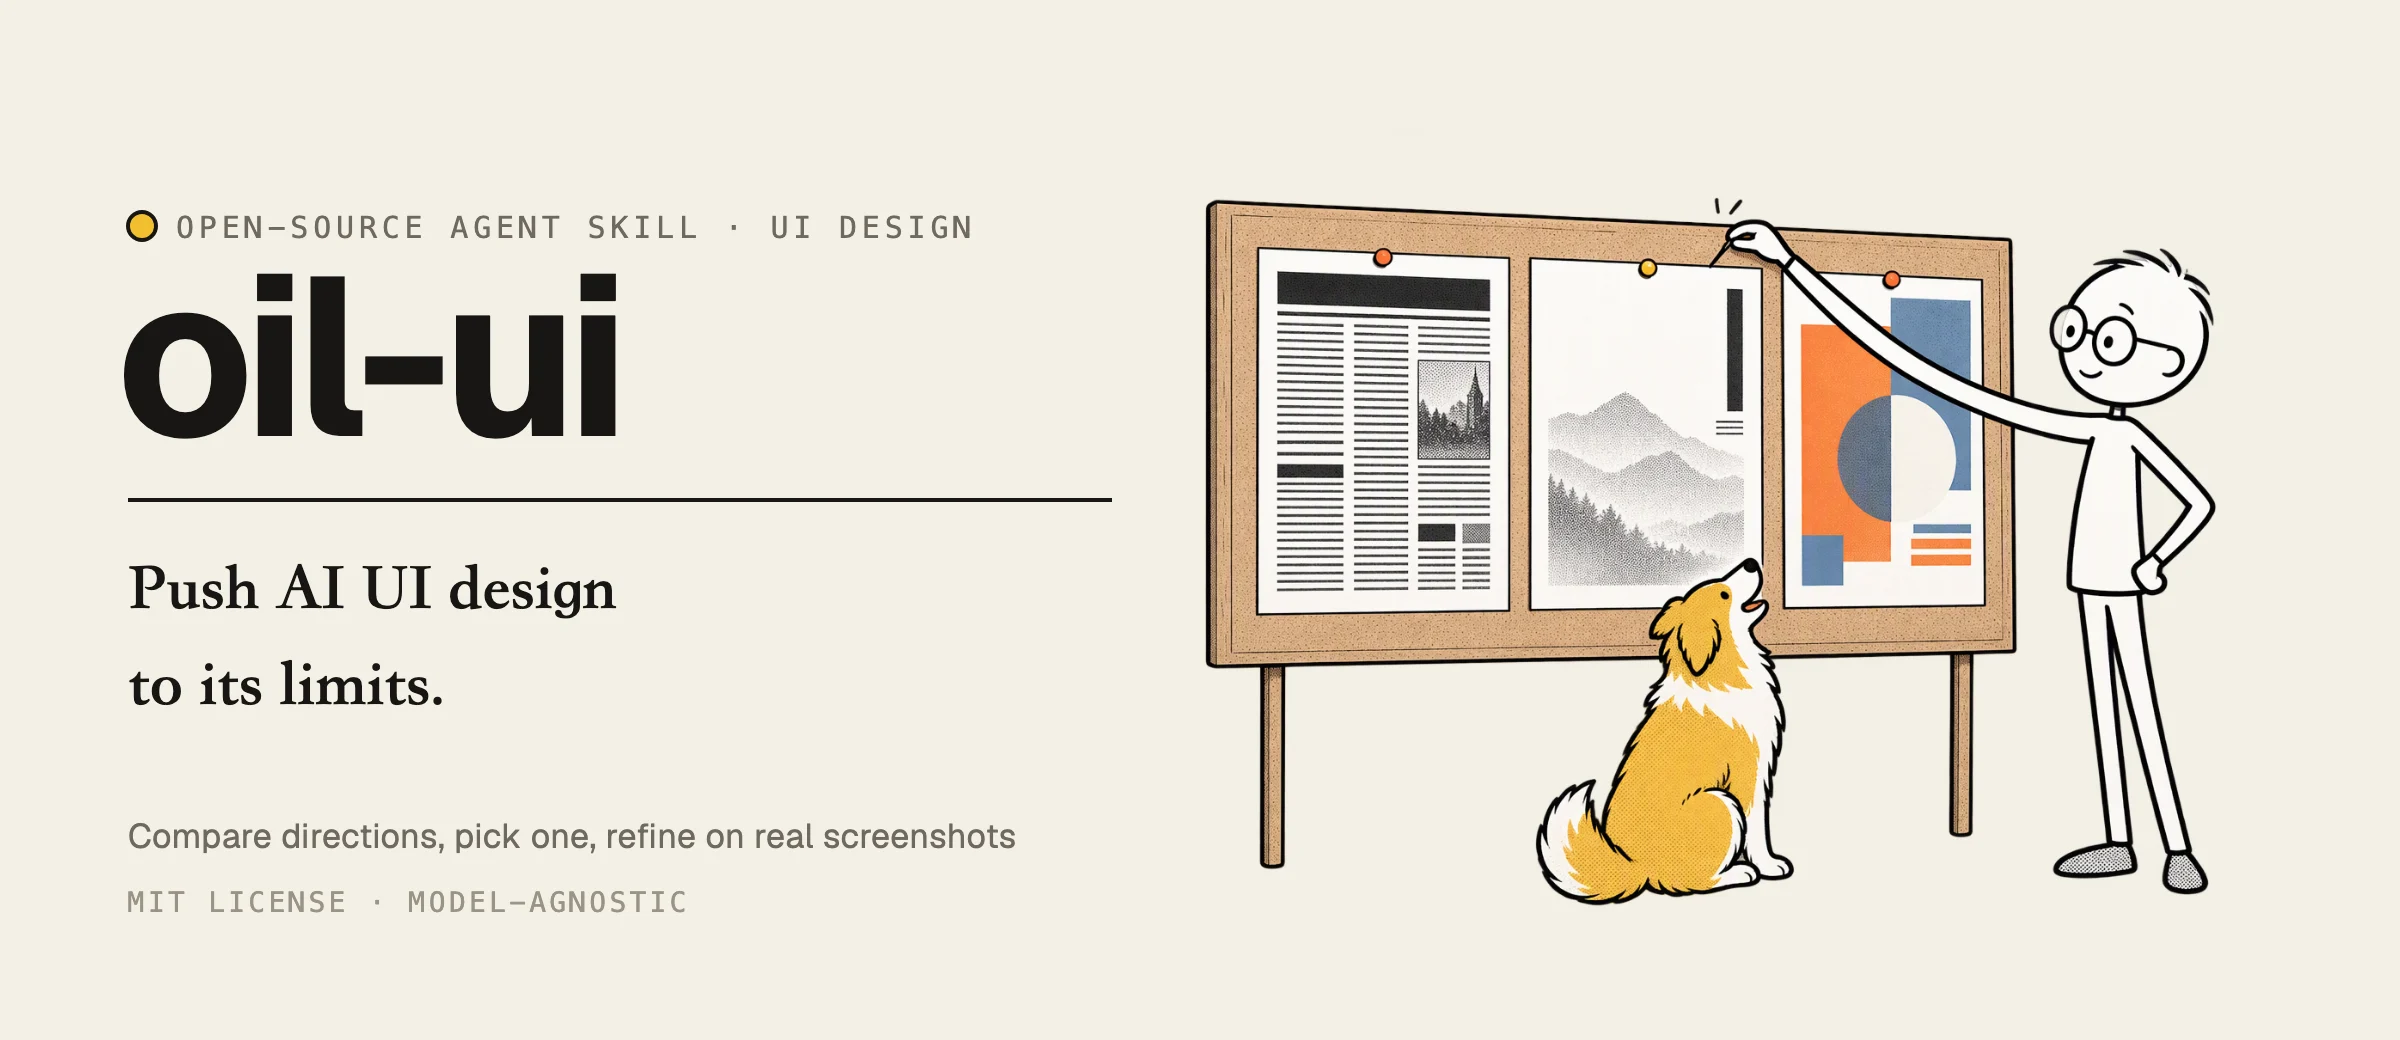
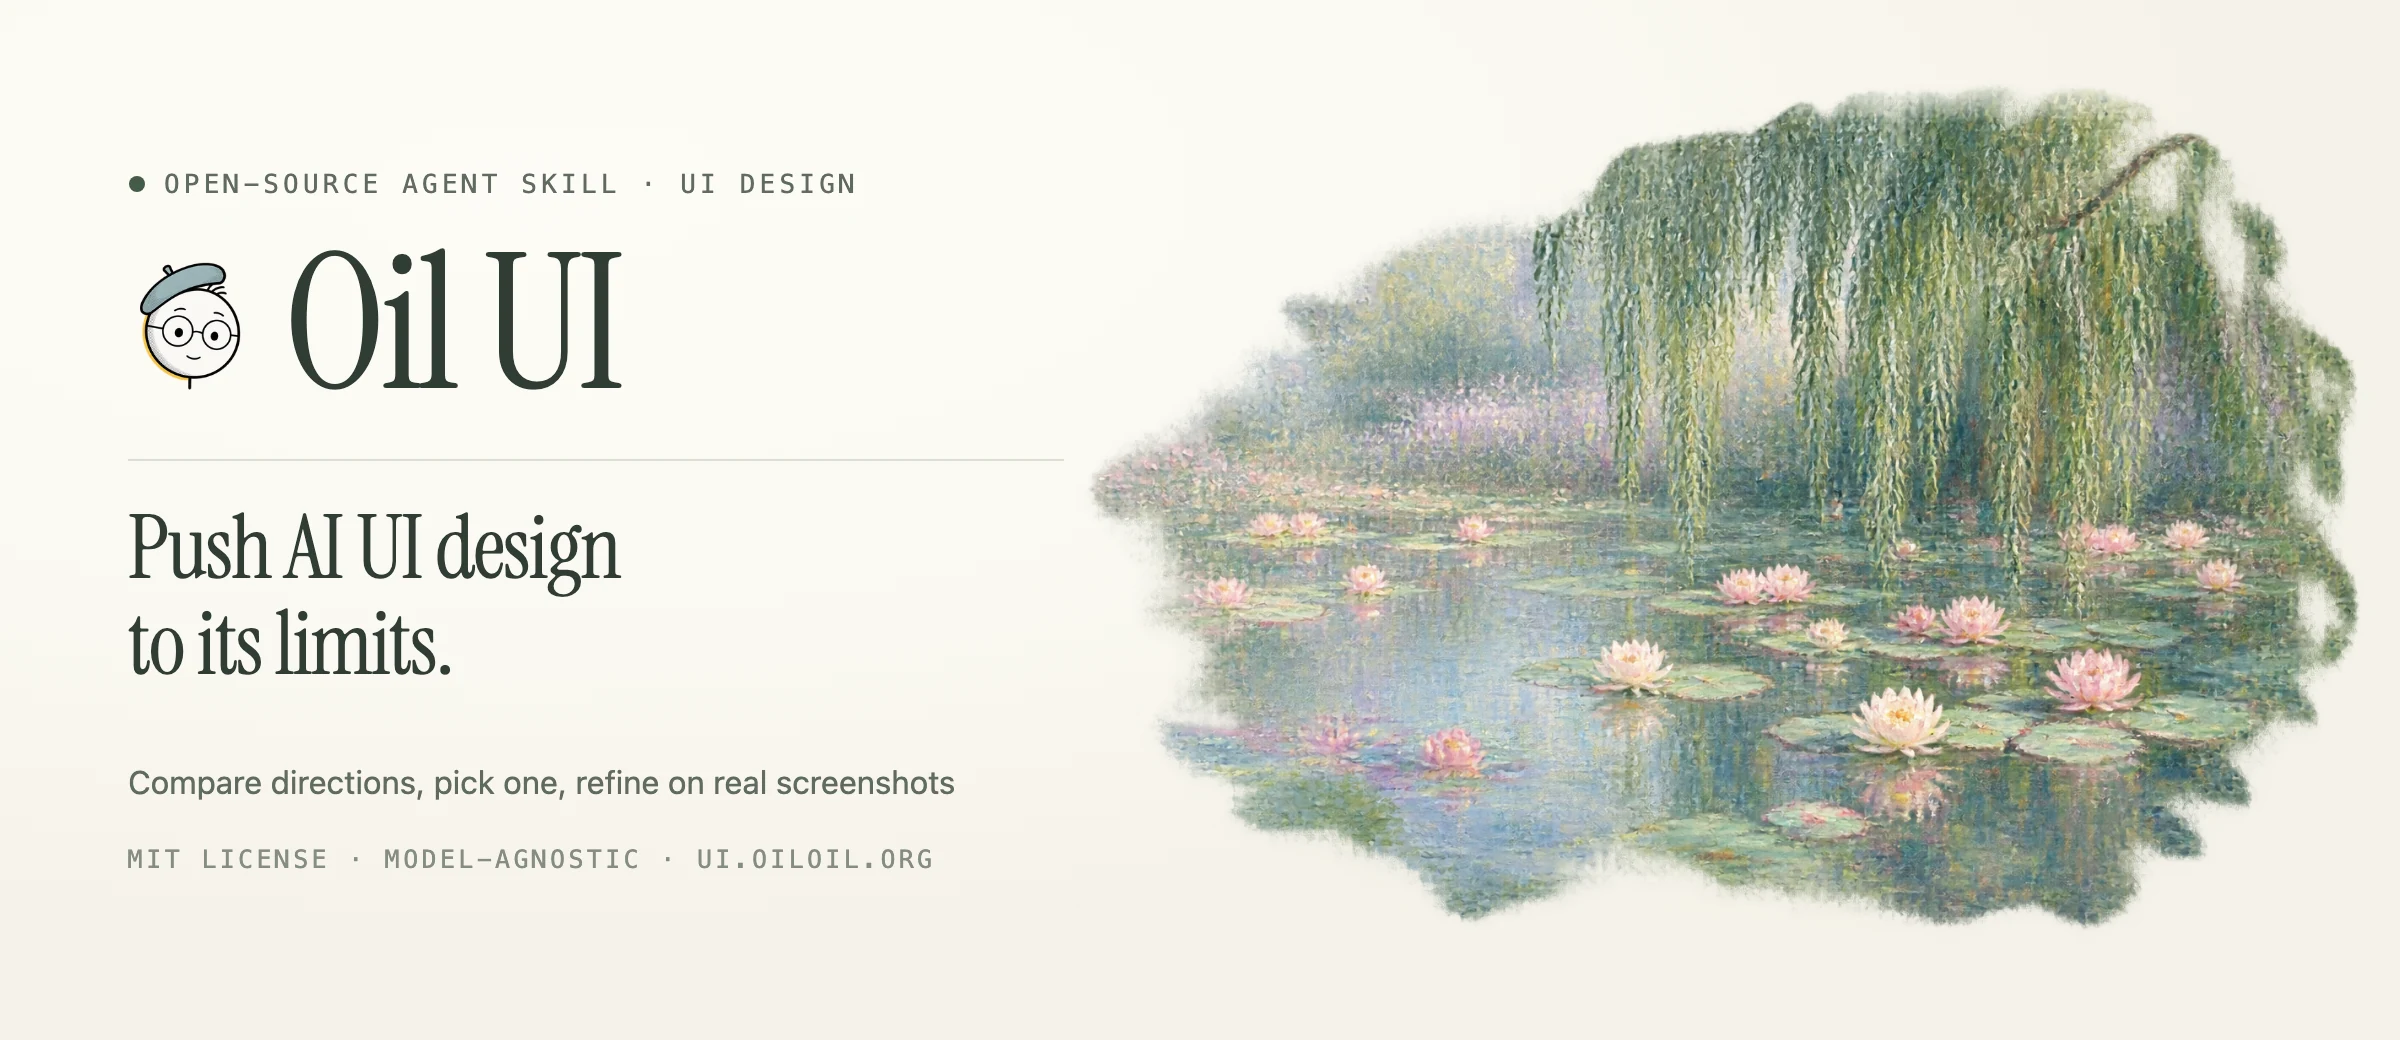
auto backup
Skills-Manager-Protocol: 2

AI-Generated-Ratio: 0.00%
AI-Added-Lines: 0/0
AI-Deleted-Lines: 0/0

diff --git a/oil-ui/README.ja.md b/oil-ui/README.ja.md
@@ -1,8 +1,8 @@
 [English](README.md) · [中文](README.zh-CN.md) · 日本語 · [한국어](https://ui.oiloil.org/ko/?utm_source=github&utm_medium=referral&utm_campaign=readme-ja&utm_content=lang-bar) · [Deutsch](https://ui.oiloil.org/de/?utm_source=github&utm_medium=referral&utm_campaign=readme-ja&utm_content=lang-bar) · [Español](https://ui.oiloil.org/es/?utm_source=github&utm_medium=referral&utm_campaign=readme-ja&utm_content=lang-bar)
 
-[![GitHub Stars](https://img.shields.io/github/stars/oil-oil/oil-ui?style=flat-square&color=292e2b)](https://github.com/oil-oil/oil-ui/stargazers) [![skills.sh](https://img.shields.io/badge/skills.sh-4.6K%2B_installs-4a5d4e?style=flat-square)](https://www.skills.sh/oil-oil/oil-ui/oil-ui) [![Live Gallery](https://img.shields.io/badge/live_gallery-143_examples-3d5a45?style=flat-square)](https://ui.oiloil.org/ja/?utm_source=github&utm_medium=referral&utm_campaign=readme-ja&utm_content=hero-gallery) [![Blind Benchmark](https://img.shields.io/badge/blind_test-87.0%2F100_(15_runs)-5b533b?style=flat-square)](https://ui.oiloil.org/ja/guide/ui-design-skills-tested/?utm_source=github&utm_medium=referral&utm_campaign=readme-ja&utm_content=guide-benchmark) [![License: MIT](https://img.shields.io/badge/license-MIT-60675f?style=flat-square)](LICENSE)
+[![GitHub Stars](https://img.shields.io/github/stars/oil-oil/oil-ui?style=flat-square&color=292e2b)](https://github.com/oil-oil/oil-ui/stargazers) [![skills.sh](https://img.shields.io/badge/skills.sh-4.6K%2B_installs-4a5d4e?style=flat-square)](https://www.skills.sh/oil-oil/oil-ui/oil-ui) [![Live Gallery](https://img.shields.io/badge/live_gallery-141_examples-3d5a45?style=flat-square)](https://ui.oiloil.org/ja/?utm_source=github&utm_medium=referral&utm_campaign=readme-ja&utm_content=hero-gallery) [![Blind Benchmark](https://img.shields.io/badge/blind_test-87.0%2F100_(15_runs)-5b533b?style=flat-square)](https://ui.oiloil.org/ja/guide/ui-design-skills-tested/?utm_source=github&utm_medium=referral&utm_campaign=readme-ja&utm_content=guide-benchmark) [![License: MIT](https://img.shields.io/badge/license-MIT-60675f?style=flat-square)](LICENSE)
 
-**Oil UI** は、AI コーディングエージェント向けのインターフェース／UI・UX デザインスキルです。1 つの明確な方向性を推奨して実際のブラウザスクリーンショットをもとに磨き上げるか、比較を求められた場合は 3 つの異なる方向性を並べて検討します。143 件のライブ事例は [ui.oiloil.org](https://ui.oiloil.org/ja/?utm_source=github&utm_medium=referral&utm_campaign=readme-ja&utm_content=intro-text) でご覧いただけます。
+**Oil UI** は、AI コーディングエージェント向けのインターフェース／UI・UX デザインスキルです。1 つの明確な方向性を推奨して実際のブラウザスクリーンショットをもとに磨き上げるか、比較を求められた場合は 3 つの異なる方向性を並べて検討します。141 件のライブ事例は [ui.oiloil.org](https://ui.oiloil.org/ja/?utm_source=github&utm_medium=referral&utm_campaign=readme-ja&utm_content=intro-text) でご覧いただけます。
 
 ```bash
 npx skills add oil-oil/oil-ui
@@ -11,7 +11,7 @@ npx skills add oil-oil/oil-ui
 **対応エージェント：** Claude Code, Cursor, Codex, Windsurf, Cline, Antigravity, OpenCode, GitHub Copilot, Roo Code, DeepSeek Harness（[dsh-oil-ui](https://github.com/oil-oil/dsh-oil-ui)）, Kimi Code, Trae ほか `SKILL.md` 対応エージェント。
 
 <p align="center">
-  <img src="./assets/readme/hero.en.webp" width="100%" alt="oil-ui：AI による UI デザインを限界まで引き上げます。異なるスタイルの 3 つのプレビューのうち、真ん中のものに黄色い画鋲を刺している人">
+  <img src="./assets/readme/hero.en.webp" width="100%" alt="Oil UI：AI による UI デザインを限界まで引き上げます。複数の方向性を比較し、1 つを選び、実画面のスクリーンショットをもとに磨き上げる。右側にモネのジヴェルニー睡蓮の池の印象派油彩ヴィネットを配置">
 </p>
 
 <p align="center">

diff --git a/oil-ui/README.md b/oil-ui/README.md
@@ -1,8 +1,8 @@
 English · [中文](README.zh-CN.md) · [日本語](README.ja.md) · [한국어](https://ui.oiloil.org/ko/?utm_source=github&utm_medium=referral&utm_campaign=readme-en&utm_content=lang-bar) · [Deutsch](https://ui.oiloil.org/de/?utm_source=github&utm_medium=referral&utm_campaign=readme-en&utm_content=lang-bar) · [Español](https://ui.oiloil.org/es/?utm_source=github&utm_medium=referral&utm_campaign=readme-en&utm_content=lang-bar)
 
-[![GitHub Stars](https://img.shields.io/github/stars/oil-oil/oil-ui?style=flat-square&color=292e2b)](https://github.com/oil-oil/oil-ui/stargazers) [![skills.sh](https://img.shields.io/badge/skills.sh-4.6K%2B_installs-4a5d4e?style=flat-square)](https://www.skills.sh/oil-oil/oil-ui/oil-ui) [![Live Gallery](https://img.shields.io/badge/live_gallery-143_examples-3d5a45?style=flat-square)](https://ui.oiloil.org/en/?utm_source=github&utm_medium=referral&utm_campaign=readme-en&utm_content=hero-gallery) [![Blind Benchmark](https://img.shields.io/badge/blind_test-87.0%2F100_(15_runs)-5b533b?style=flat-square)](https://ui.oiloil.org/en/guide/ui-design-skills-tested/?utm_source=github&utm_medium=referral&utm_campaign=readme-en&utm_content=guide-benchmark) [![License: MIT](https://img.shields.io/badge/license-MIT-60675f?style=flat-square)](LICENSE)
+[![GitHub Stars](https://img.shields.io/github/stars/oil-oil/oil-ui?style=flat-square&color=292e2b)](https://github.com/oil-oil/oil-ui/stargazers) [![skills.sh](https://img.shields.io/badge/skills.sh-4.6K%2B_installs-4a5d4e?style=flat-square)](https://www.skills.sh/oil-oil/oil-ui/oil-ui) [![Live Gallery](https://img.shields.io/badge/live_gallery-141_examples-3d5a45?style=flat-square)](https://ui.oiloil.org/en/?utm_source=github&utm_medium=referral&utm_campaign=readme-en&utm_content=hero-gallery) [![Blind Benchmark](https://img.shields.io/badge/blind_test-87.0%2F100_(15_runs)-5b533b?style=flat-square)](https://ui.oiloil.org/en/guide/ui-design-skills-tested/?utm_source=github&utm_medium=referral&utm_campaign=readme-en&utm_content=guide-benchmark) [![License: MIT](https://img.shields.io/badge/license-MIT-60675f?style=flat-square)](LICENSE)
 
-**Oil UI** is an interface & UI/UX design skill for AI coding agents. It recommends one clear visual direction and refines it against real-browser screenshots, or explores 3 genuinely distinct directions side by side when you ask to compare. Browse 143 live websites, apps, dashboards, and components at [ui.oiloil.org](https://ui.oiloil.org/en/?utm_source=github&utm_medium=referral&utm_campaign=readme-en&utm_content=intro-text).
+**Oil UI** is an interface & UI/UX design skill for AI coding agents. It recommends one clear visual direction and refines it against real-browser screenshots, or explores 3 genuinely distinct directions side by side when you ask to compare. Browse 141 live websites, apps, dashboards, and components at [ui.oiloil.org](https://ui.oiloil.org/en/?utm_source=github&utm_medium=referral&utm_campaign=readme-en&utm_content=intro-text).
 
 ```bash
 npx skills add oil-oil/oil-ui
@@ -11,7 +11,7 @@ npx skills add oil-oil/oil-ui
 **Compatible with:** Claude Code, Cursor, Codex, Windsurf, Cline, Antigravity, OpenCode, GitHub Copilot, Roo Code, DeepSeek Harness ([dsh-oil-ui](https://github.com/oil-oil/dsh-oil-ui)), Kimi Code, Trae, and any `SKILL.md`-compatible agent.
 
 <p align="center">
-  <img src="./assets/readme/hero.en.webp" width="100%" alt="oil-ui: push AI UI design to its limits. A person pins a yellow pushpin to the middle of three previews in different styles">
+  <img src="./assets/readme/hero.en.webp" width="100%" alt="Oil UI: push AI UI design to its limits. Compare directions, pick one, refine on real screenshots — paired with an impressionist Monet Giverny water-lily pond vignette on warm ivory parchment">
 </p>
 
 <p align="center">

diff --git a/oil-ui/README.zh-CN.md b/oil-ui/README.zh-CN.md
@@ -1,8 +1,8 @@
 [English](README.md) · 中文 · [日本語](README.ja.md) · [한국어](https://ui.oiloil.org/ko/?utm_source=github&utm_medium=referral&utm_campaign=readme-zh&utm_content=lang-bar) · [Deutsch](https://ui.oiloil.org/de/?utm_source=github&utm_medium=referral&utm_campaign=readme-zh&utm_content=lang-bar) · [Español](https://ui.oiloil.org/es/?utm_source=github&utm_medium=referral&utm_campaign=readme-zh&utm_content=lang-bar)
 
-[![GitHub Stars](https://img.shields.io/github/stars/oil-oil/oil-ui?style=flat-square&color=292e2b)](https://github.com/oil-oil/oil-ui/stargazers) [![skills.sh](https://img.shields.io/badge/skills.sh-4.6K%2B_安装-4a5d4e?style=flat-square)](https://www.skills.sh/oil-oil/oil-ui/oil-ui) [![Live Gallery](https://img.shields.io/badge/在线画廊-143_件真实作品-3d5a45?style=flat-square)](https://ui.oiloil.org/?utm_source=github&utm_medium=referral&utm_campaign=readme-zh&utm_content=hero-gallery) [![Blind Benchmark](https://img.shields.io/badge/15次盲测均分-87.0%2F100-5b533b?style=flat-square)](https://ui.oiloil.org/guide/ui-design-skills-tested/?utm_source=github&utm_medium=referral&utm_campaign=readme-zh&utm_content=guide-benchmark) [![License: MIT](https://img.shields.io/badge/license-MIT-60675f?style=flat-square)](LICENSE)
+[![GitHub Stars](https://img.shields.io/github/stars/oil-oil/oil-ui?style=flat-square&color=292e2b)](https://github.com/oil-oil/oil-ui/stargazers) [![skills.sh](https://img.shields.io/badge/skills.sh-4.6K%2B_安装-4a5d4e?style=flat-square)](https://www.skills.sh/oil-oil/oil-ui/oil-ui) [![Live Gallery](https://img.shields.io/badge/在线画廊-141_件真实作品-3d5a45?style=flat-square)](https://ui.oiloil.org/?utm_source=github&utm_medium=referral&utm_campaign=readme-zh&utm_content=hero-gallery) [![Blind Benchmark](https://img.shields.io/badge/15次盲测均分-87.0%2F100-5b533b?style=flat-square)](https://ui.oiloil.org/guide/ui-design-skills-tested/?utm_source=github&utm_medium=referral&utm_campaign=readme-zh&utm_content=guide-benchmark) [![License: MIT](https://img.shields.io/badge/license-MIT-60675f?style=flat-square)](LICENSE)
 
-**Oil UI** 是给 AI 编程 Agent 用的界面与 UI/UX 设计 Skill：默认推荐一个明确的设计方向并对照真实浏览器截图打磨；需要比较时，可并排生成 3 套构图、字体与配色真正拉开差距的方案。网站、App、后台和组件都能做，143 件在线作品见 [ui.oiloil.org](https://ui.oiloil.org/?utm_source=github&utm_medium=referral&utm_campaign=readme-zh&utm_content=intro-text)。
+**Oil UI** 是给 AI 编程 Agent 用的界面与 UI/UX 设计 Skill：默认推荐一个明确的设计方向并对照真实浏览器截图打磨；需要比较时，可并排生成 3 套构图、字体与配色真正拉开差距的方案。网站、App、后台和组件都能做，141 件在线作品见 [ui.oiloil.org](https://ui.oiloil.org/?utm_source=github&utm_medium=referral&utm_campaign=readme-zh&utm_content=intro-text)。
 
 ```bash
 npx skills add oil-oil/oil-ui
@@ -11,7 +11,7 @@ npx skills add oil-oil/oil-ui
 **兼容宿主：** Claude Code, Cursor, Codex, Windsurf, Cline, Antigravity, OpenCode, GitHub Copilot, Roo Code, DeepSeek Harness（[dsh-oil-ui](https://github.com/oil-oil/dsh-oil-ui)）, Kimi Code, Trae 及任意支持 `SKILL.md` 的 Agent。
 
 <p align="center">
-  <img src="./assets/readme/hero.webp" width="100%" alt="oil-ui：把 AI 的 UI 设计能力推到极限。插画里的人把黄色图钉按在三张风格不同的小样中间那张上">
+  <img src="./assets/readme/hero.webp" width="100%" alt="Oil UI：把 AI 的 UI 设计能力，推到极限。几个方向并排对比，挑中后再照着真实画面打磨；右侧配以暖纸面上的莫奈吉维尼睡莲池印象派油画">
 </p>
 
 <p align="center">
